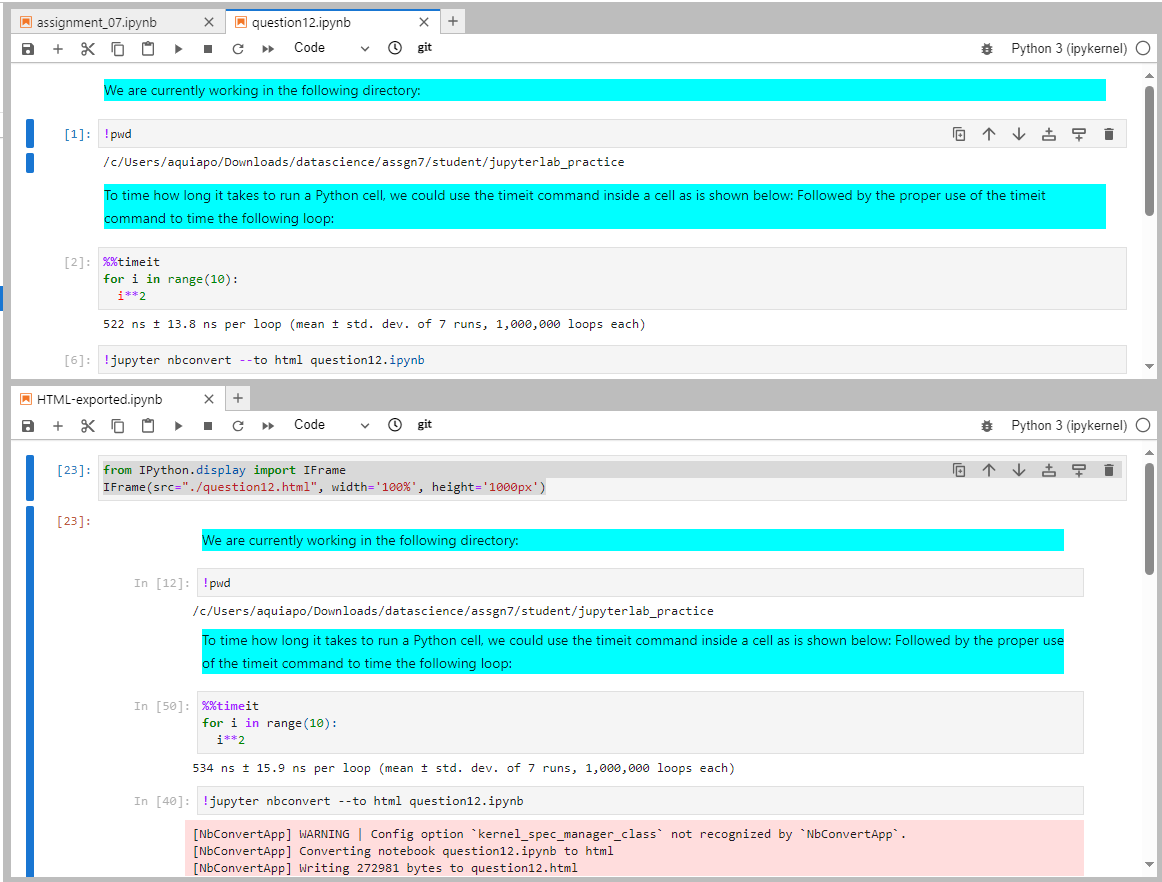
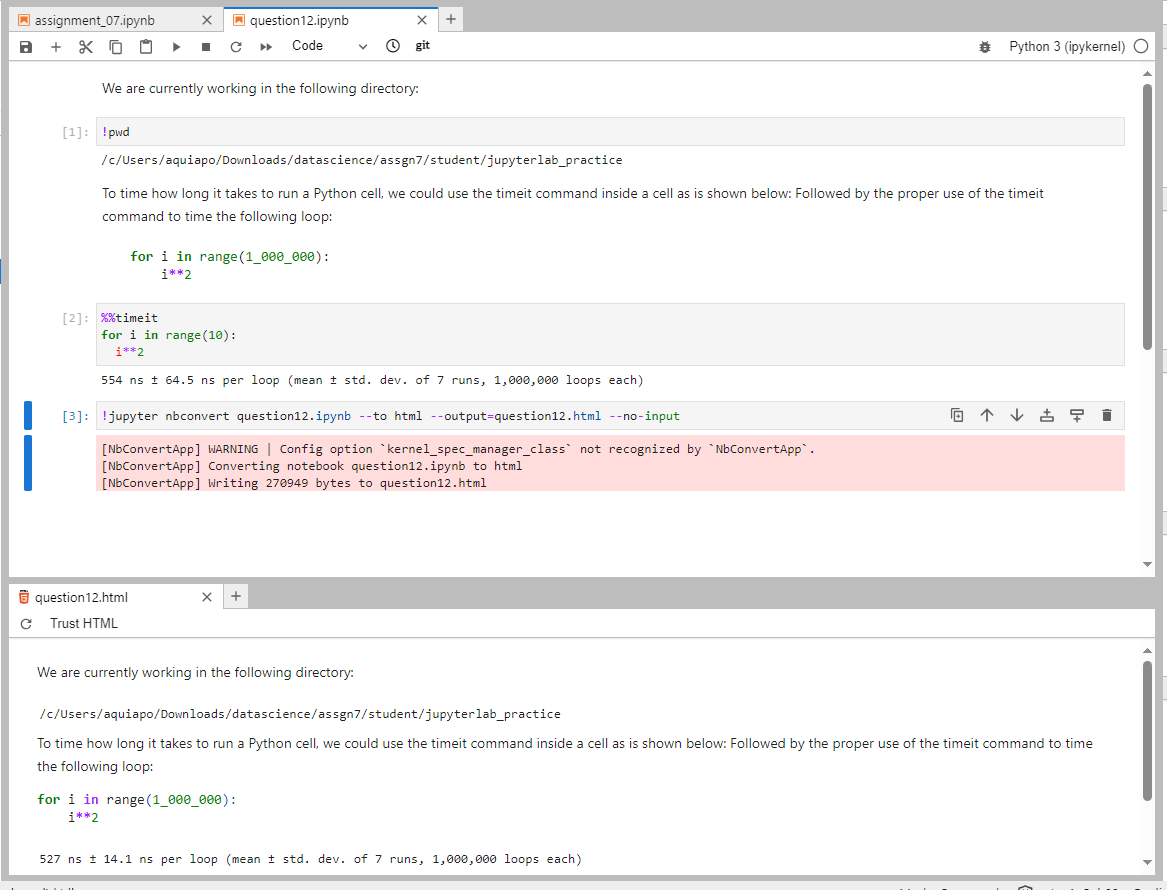
correction for question12

diff --git a/question12.html b/question12.html
@@ -7480,32 +7480,17 @@ a.anchor-link {
 <div class="jp-Cell-inputWrapper" tabindex="0">
 <div class="jp-Collapser jp-InputCollapser jp-Cell-inputCollapser">
 </div>
-<div class="jp-InputArea jp-Cell-inputArea"><div class="jp-InputPrompt jp-InputArea-prompt">
-</div><div class="jp-RenderedHTMLCommon jp-RenderedMarkdown jp-MarkdownOutput" data-mime-type="text/markdown">
-<p style="background:aqua">We are currently working in the following directory:</p>
+<div class="jp-InputArea jp-Cell-inputArea"><div class="jp-RenderedHTMLCommon jp-RenderedMarkdown jp-MarkdownOutput" data-mime-type="text/markdown">
+<p>We are currently working in the following directory:</p>
 </div>
 </div>
 </div>
-</div><div class="jp-Cell jp-CodeCell jp-Notebook-cell" id="cell-id=02f14568-16af-44e8-902b-7ba9eace2934">
-<div class="jp-Cell-inputWrapper" tabindex="0">
-<div class="jp-Collapser jp-InputCollapser jp-Cell-inputCollapser">
-</div>
-<div class="jp-InputArea jp-Cell-inputArea">
-<div class="jp-InputPrompt jp-InputArea-prompt">In [1]:</div>
-<div class="jp-CodeMirrorEditor jp-Editor jp-InputArea-editor" data-type="inline">
-<div class="cm-editor cm-s-jupyter">
-<div class="highlight hl-ipython3"><pre><span></span><span class="o">!</span>pwd
-</pre></div>
-</div>
-</div>
-</div>
-</div>
+</div><div class="jp-Cell jp-CodeCell jp-Notebook-cell jp-mod-noInput" id="cell-id=02f14568-16af-44e8-902b-7ba9eace2934">
 <div class="jp-Cell-outputWrapper">
 <div class="jp-Collapser jp-OutputCollapser jp-Cell-outputCollapser">
 </div>
 <div class="jp-OutputArea jp-Cell-outputArea">
 <div class="jp-OutputArea-child">
-<div class="jp-OutputPrompt jp-OutputArea-prompt"></div>
 <div class="jp-RenderedText jp-OutputArea-output" data-mime-type="text/plain" tabindex="0">
 <pre>/c/Users/aquiapo/Downloads/datascience/assgn7/student/jupyterlab_practice
 </pre>
@@ -7518,65 +7503,37 @@ a.anchor-link {
 <div class="jp-Cell-inputWrapper" tabindex="0">
 <div class="jp-Collapser jp-InputCollapser jp-Cell-inputCollapser">
 </div>
-<div class="jp-InputArea jp-Cell-inputArea"><div class="jp-InputPrompt jp-InputArea-prompt">
-</div><div class="jp-RenderedHTMLCommon jp-RenderedMarkdown jp-MarkdownOutput" data-mime-type="text/markdown">
-<p style="background:aqua">To time how long it takes to run a Python cell, we could use the timeit command inside a cell as is shown below: Followed by the proper use of the timeit command to time the following loop:</p>
-</div>
-</div>
-</div>
-</div><div class="jp-Cell jp-CodeCell jp-Notebook-cell" id="cell-id=13a915ae-88a2-4dba-a8b6-7ebf6d0e03a8">
-<div class="jp-Cell-inputWrapper" tabindex="0">
-<div class="jp-Collapser jp-InputCollapser jp-Cell-inputCollapser">
-</div>
-<div class="jp-InputArea jp-Cell-inputArea">
-<div class="jp-InputPrompt jp-InputArea-prompt">In [2]:</div>
-<div class="jp-CodeMirrorEditor jp-Editor jp-InputArea-editor" data-type="inline">
-<div class="cm-editor cm-s-jupyter">
-<div class="highlight hl-ipython3"><pre><span></span><span class="o">%%time</span>it 
-<span class="k">for</span> <span class="n">i</span> <span class="ow">in</span> <span class="nb">range</span><span class="p">(</span><span class="mi">10</span><span class="p">):</span>
-  <span class="n">i</span><span class="o">**</span><span class="mi">2</span>
+<div class="jp-InputArea jp-Cell-inputArea"><div class="jp-RenderedHTMLCommon jp-RenderedMarkdown jp-MarkdownOutput" data-mime-type="text/markdown">
+<p>To time how long it takes to run a Python cell, we could use the timeit command inside a cell as is shown below: Followed by the proper use of the timeit command to time the following loop:</p>
+<div class="highlight"><pre><span></span><span class="k">for</span> <span class="n">i</span> <span class="ow">in</span> <span class="nb">range</span><span class="p">(</span><span class="mi">1_000_000</span><span class="p">):</span>
+    <span class="n">i</span><span class="o">**</span><span class="mi">2</span>
 </pre></div>
 </div>
 </div>
 </div>
-</div>
+</div><div class="jp-Cell jp-CodeCell jp-Notebook-cell jp-mod-noInput" id="cell-id=13a915ae-88a2-4dba-a8b6-7ebf6d0e03a8">
 <div class="jp-Cell-outputWrapper">
 <div class="jp-Collapser jp-OutputCollapser jp-Cell-outputCollapser">
 </div>
 <div class="jp-OutputArea jp-Cell-outputArea">
 <div class="jp-OutputArea-child">
-<div class="jp-OutputPrompt jp-OutputArea-prompt"></div>
 <div class="jp-RenderedText jp-OutputArea-output" data-mime-type="text/plain" tabindex="0">
-<pre>522 ns ± 13.8 ns per loop (mean ± std. dev. of 7 runs, 1,000,000 loops each)
+<pre>527 ns ± 14.1 ns per loop (mean ± std. dev. of 7 runs, 1,000,000 loops each)
 </pre>
 </div>
 </div>
 </div>
 </div>
-</div><div class="jp-Cell jp-CodeCell jp-Notebook-cell" id="cell-id=35573bfe-c4ed-49b7-9b5d-a642126842b6">
-<div class="jp-Cell-inputWrapper" tabindex="0">
-<div class="jp-Collapser jp-InputCollapser jp-Cell-inputCollapser">
-</div>
-<div class="jp-InputArea jp-Cell-inputArea">
-<div class="jp-InputPrompt jp-InputArea-prompt">In [3]:</div>
-<div class="jp-CodeMirrorEditor jp-Editor jp-InputArea-editor" data-type="inline">
-<div class="cm-editor cm-s-jupyter">
-<div class="highlight hl-ipython3"><pre><span></span><span class="o">!</span>jupyter<span class="w"> </span>nbconvert<span class="w"> </span>--to<span class="w"> </span>html<span class="w"> </span>question12.ipynb
-</pre></div>
-</div>
-</div>
-</div>
-</div>
+</div><div class="jp-Cell jp-CodeCell jp-Notebook-cell jp-mod-noInput" id="cell-id=35573bfe-c4ed-49b7-9b5d-a642126842b6">
 <div class="jp-Cell-outputWrapper">
 <div class="jp-Collapser jp-OutputCollapser jp-Cell-outputCollapser">
 </div>
 <div class="jp-OutputArea jp-Cell-outputArea">
 <div class="jp-OutputArea-child">
-<div class="jp-OutputPrompt jp-OutputArea-prompt"></div>
 <div class="jp-RenderedText jp-OutputArea-output" data-mime-type="application/vnd.jupyter.stderr" tabindex="0">
 <pre>[NbConvertApp] WARNING | Config option `kernel_spec_manager_class` not recognized by `NbConvertApp`.
 [NbConvertApp] Converting notebook question12.ipynb to html
-[NbConvertApp] Writing 272722 bytes to question12.html
+[NbConvertApp] Writing 271088 bytes to output-filename.html
 </pre>
 </div>
 </div>
